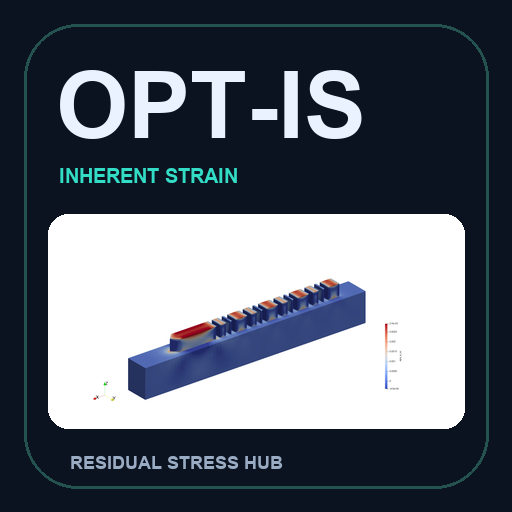
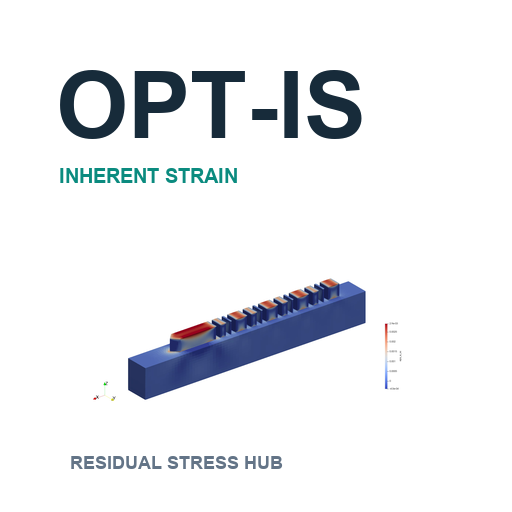
Use white artwork and a static workflow diagram

diff --git a/README.md b/README.md
@@ -29,12 +29,12 @@ Explore the related benchmarks and research on my personal website, **[Residual 
 
 <table>
   <tr>
-    <td width="50%"><img src="docs/media/single-track.gif" alt="Recorded single-track AM scanning simulation, retaining the original field color legend" width="100%"></td>
-    <td width="50%"><img src="docs/media/thin-wall.gif" alt="Recorded thin-wall AM build simulation, retaining the original field color legend" width="100%"></td>
+    <td width="50%" align="center"><img src="docs/media/single-track.gif" alt="Recorded single-track AM scanning simulation, retaining the original field color legend" width="100%"><br><strong>Single-track scanning</strong></td>
+    <td width="50%" align="center"><img src="docs/media/thin-wall.gif" alt="Recorded thin-wall AM build simulation, retaining the original field color legend" width="100%"><br><strong>Thin-wall build</strong></td>
   </tr>
   <tr>
-    <td width="50%"><img src="docs/media/cantilever.gif" alt="Recorded cantilever simulation displaying the eps_e_xx elastic strain field" width="100%"></td>
-    <td width="50%"><img src="docs/media/bridge.gif" alt="Recorded bridge simulation displaying the eps_e_xx elastic strain field" width="100%"></td>
+    <td width="50%" align="center"><img src="docs/media/cantilever.gif" alt="Recorded cantilever simulation displaying the eps_e_xx elastic strain field" width="100%"><br><strong>Cantilever</strong></td>
+    <td width="50%" align="center"><img src="docs/media/bridge.gif" alt="Recorded bridge simulation displaying the eps_e_xx elastic strain field" width="100%"><br><strong>Bridge</strong></td>
   </tr>
 </table>
 
@@ -42,19 +42,7 @@ These animations come from existing simulation recordings in the author's `opt_o
 
 ## Workflow
 
-```mermaid
-flowchart LR
-    A[Small mesh + AM parameters] --> B[AM thermomechanical simulation]
-    B --> C[Latest AM reference VTU]
-    C --> D[Inherent strain optimization]
-    D --> E[epsilon_result.json]
-    E --> F[Macroscale forward simulation]
-    G[Large mesh + forward parameters] --> F
-    F --> H[Cutting + postprocessing]
-    S[Shared solver_config.yaml] -.-> B
-    S -.-> D
-    S -.-> F
-```
+![OPT-IS workflow: thermomechanical AM, inherent strain optimization, and macroscale forward simulation, using a shared solver configuration.](docs/media/workflow.png)
 
 | Stage | Entry point | Role |
 | :--- | :--- | :--- |
